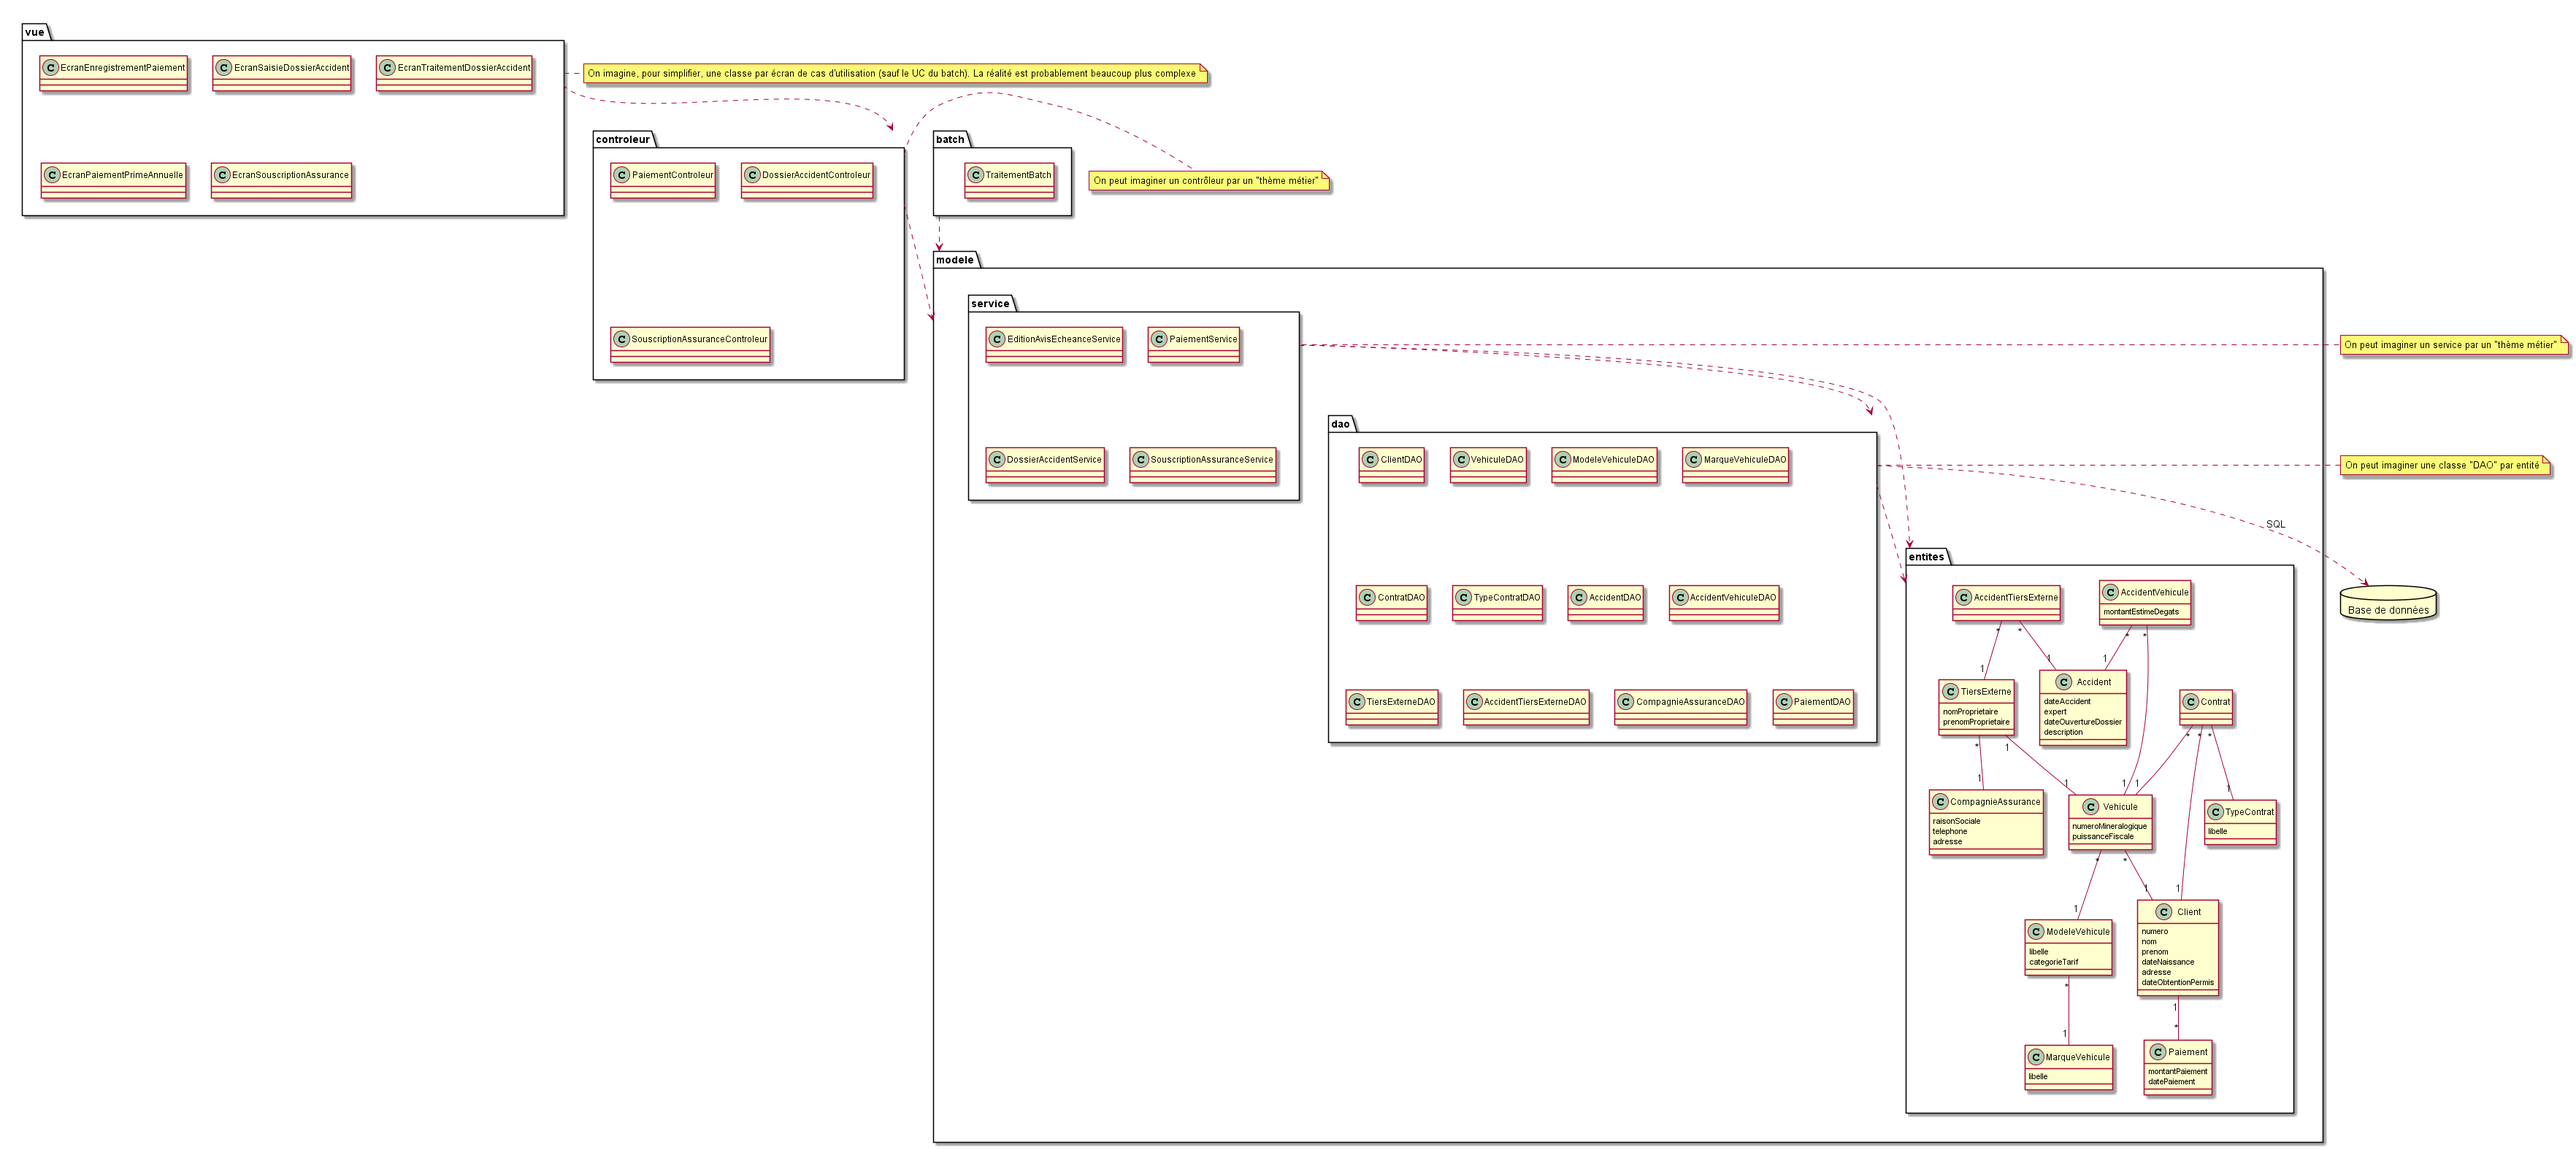
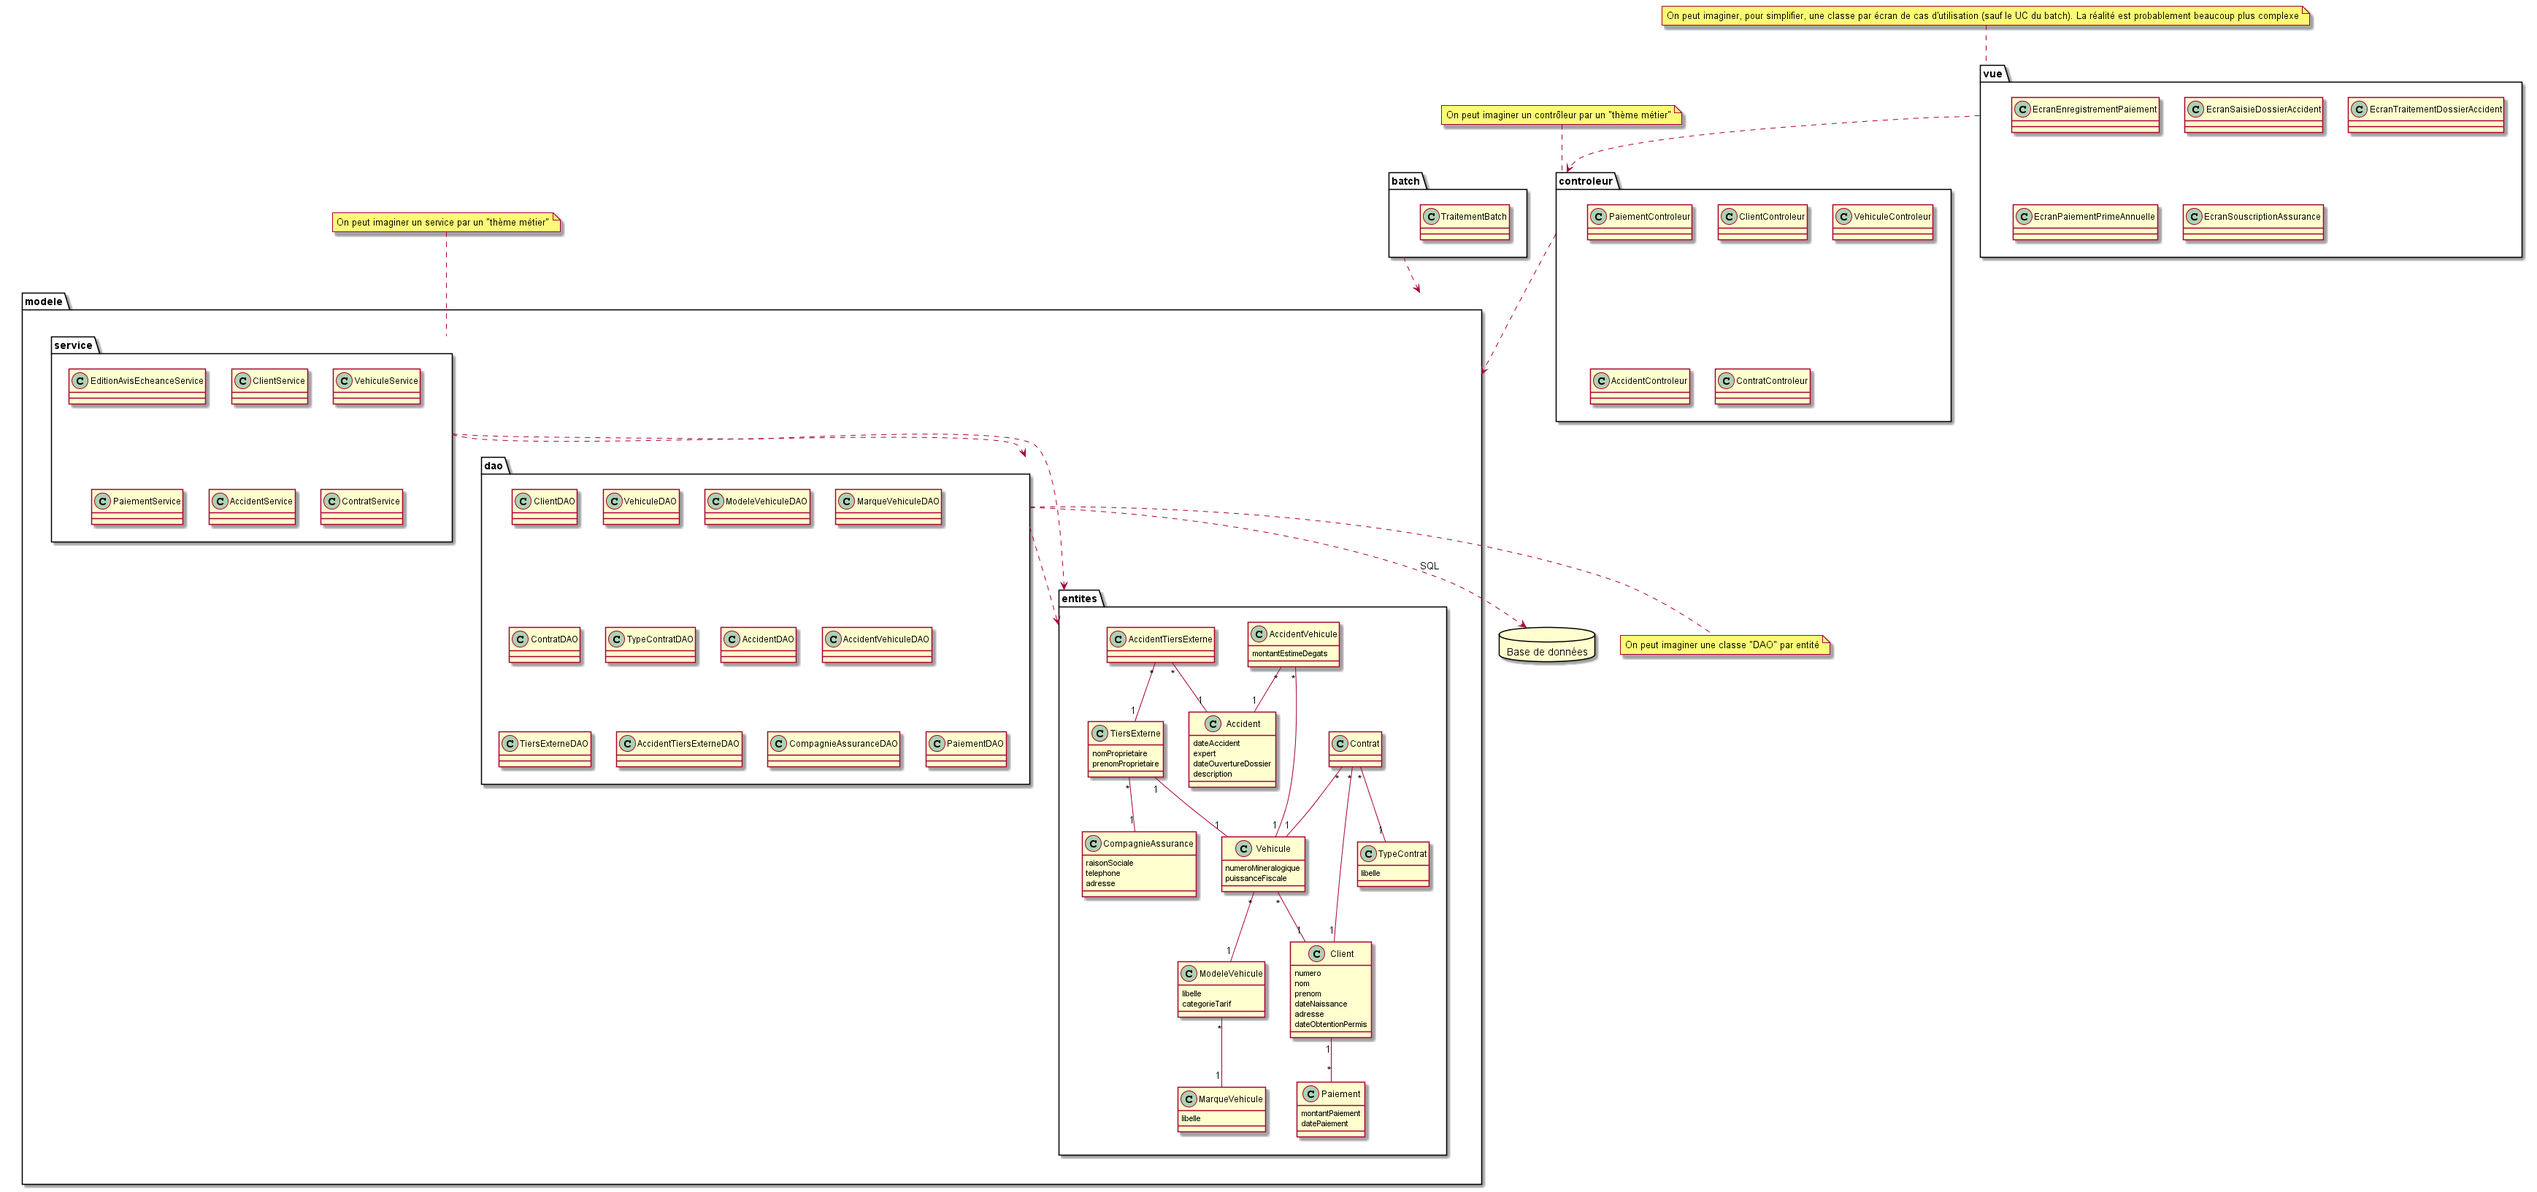
TD7 : suite

diff --git a/corrections/td7.html b/corrections/td7.html
@@ -524,19 +524,55 @@ body.book #toc,body.book #preamble,body.book h1.sect0,body.book .sect1>h2{page-b
 </div>
 <div class="sect2">
 <h3 id="_diagramme_de_classes_mvc">Diagramme de classes MVC</h3>
+<div class="admonitionblock note">
+<table>
+<tr>
+<td class="icon">
+<div class="title">Note</div>
+</td>
+<td class="content">
+<div class="paragraph">
+<p>Pour éviter un schéma "toile d&#8217;araignée", les relations (dépendances) entre les classes ont été simplifiées (par des relations entre les packages)</p>
+</div>
+</td>
+</tr>
+</table>
+</div>
 <div class="imageblock">
 <div class="content">
-<img src="images/td7ClassesMVC.png" alt="td7ClassesMVC" width="3528" height="1576">
+<img src="images/td7ClassesMVC.png" alt="td7ClassesMVC" width="3475" height="1633">
 </div>
 </div>
 </div>
 <div class="sect2">
 <h3 id="_diagramme_de_séquences_système_pour_l_uc_saisie_des_dossiers_accidents">Diagramme de séquences système pour l&#8217;UC "Saisie des dossiers accidents"</h3>
-
+<div class="imageblock">
+<div class="content">
+<img src="images/td7SequencesSystemeSaisieAccidents.png" alt="td7SequencesSystemeSaisieAccidents" width="884" height="626">
+</div>
+</div>
 </div>
 <div class="sect2">
 <h3 id="_diagramme_de_séquences_pour_l_uc_saisie_des_dossiers_accidents">Diagramme de séquences pour l&#8217;UC "Saisie des dossiers accidents"</h3>
-
+<div class="admonitionblock note">
+<table>
+<tr>
+<td class="icon">
+<div class="title">Note</div>
+</td>
+<td class="content">
+<div class="paragraph">
+<p>Ce diagramme de séquences est volontairement très détaillé</p>
+</div>
+</td>
+</tr>
+</table>
+</div>
+<div class="imageblock">
+<div class="content">
+<img src="images/td7SequencesSaisieAccidents.png" alt="td7SequencesSaisieAccidents" width="2402" height="1112">
+</div>
+</div>
 </div>
 <div class="sect2">
 <h3 id="_diagramme_de_classes_participantes_pour_l_uc_saisie_des_dossiers_accidents">Diagramme de classes participantes pour l&#8217;UC "Saisie des dossiers accidents"</h3>
@@ -547,7 +583,7 @@ body.book #toc,body.book #preamble,body.book h1.sect0,body.book .sect1>h2{page-b
 </div>
 <div id="footer">
 <div id="footer-text">
-Last updated 2021-05-03 21:40:21 CEST
+Last updated 2021-05-04 14:08:48 CEST
 </div>
 </div>
 </body>

diff --git a/corrections/td5.html b/corrections/td5.html
@@ -495,7 +495,7 @@ body.book #toc,body.book #preamble,body.book h1.sect0,body.book .sect1>h2{page-b
 </div>
 <div id="footer">
 <div id="footer-text">
-Last updated 2021-03-30 21:55:30 CEST
+Last updated 2021-05-03 22:21:54 CEST
 </div>
 </div>
 </body>

diff --git a/corrections/td6.html b/corrections/td6.html
@@ -547,7 +547,7 @@ body.book #toc,body.book #preamble,body.book h1.sect0,body.book .sect1>h2{page-b
 </div>
 <div id="footer">
 <div id="footer-text">
-Last updated 2021-04-07 21:38:56 CEST
+Last updated 2021-05-03 22:21:54 CEST
 </div>
 </div>
 </body>

diff --git a/corrections/td1.html b/corrections/td1.html
@@ -516,7 +516,7 @@ body.book #toc,body.book #preamble,body.book h1.sect0,body.book .sect1>h2{page-b
 </div>
 <div id="footer">
 <div id="footer-text">
-Last updated 2021-02-22 13:35:47 CET
+Last updated 2021-05-03 22:21:54 CEST
 </div>
 </div>
 </body>

diff --git a/corrections/td2.html b/corrections/td2.html
@@ -544,7 +544,7 @@ body.book #toc,body.book #preamble,body.book h1.sect0,body.book .sect1>h2{page-b
 </div>
 <div id="footer">
 <div id="footer-text">
-Last updated 2021-03-01 08:45:55 CET
+Last updated 2021-05-03 22:21:54 CEST
 </div>
 </div>
 </body>

diff --git a/corrections/td3.html b/corrections/td3.html
@@ -951,7 +951,7 @@ body.book #toc,body.book #preamble,body.book h1.sect0,body.book .sect1>h2{page-b
 </div>
 <div id="footer">
 <div id="footer-text">
-Last updated 2021-03-16 21:11:21 CET
+Last updated 2021-05-03 22:21:54 CEST
 </div>
 </div>
 </body>

diff --git a/corrections/td4.html b/corrections/td4.html
@@ -568,7 +568,7 @@ body.book #toc,body.book #preamble,body.book h1.sect0,body.book .sect1>h2{page-b
 </div>
 <div id="footer">
 <div id="footer-text">
-Last updated 2021-03-23 21:33:48 CET
+Last updated 2021-05-03 22:21:54 CEST
 </div>
 </div>
 </body>
